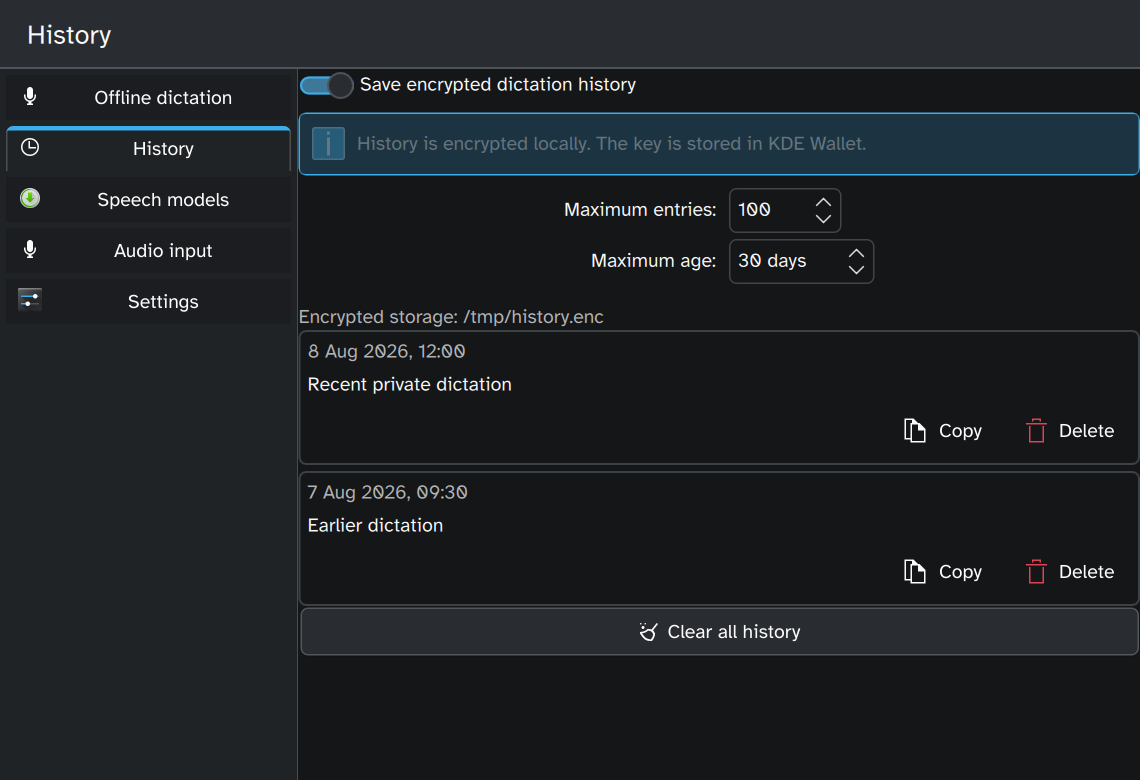
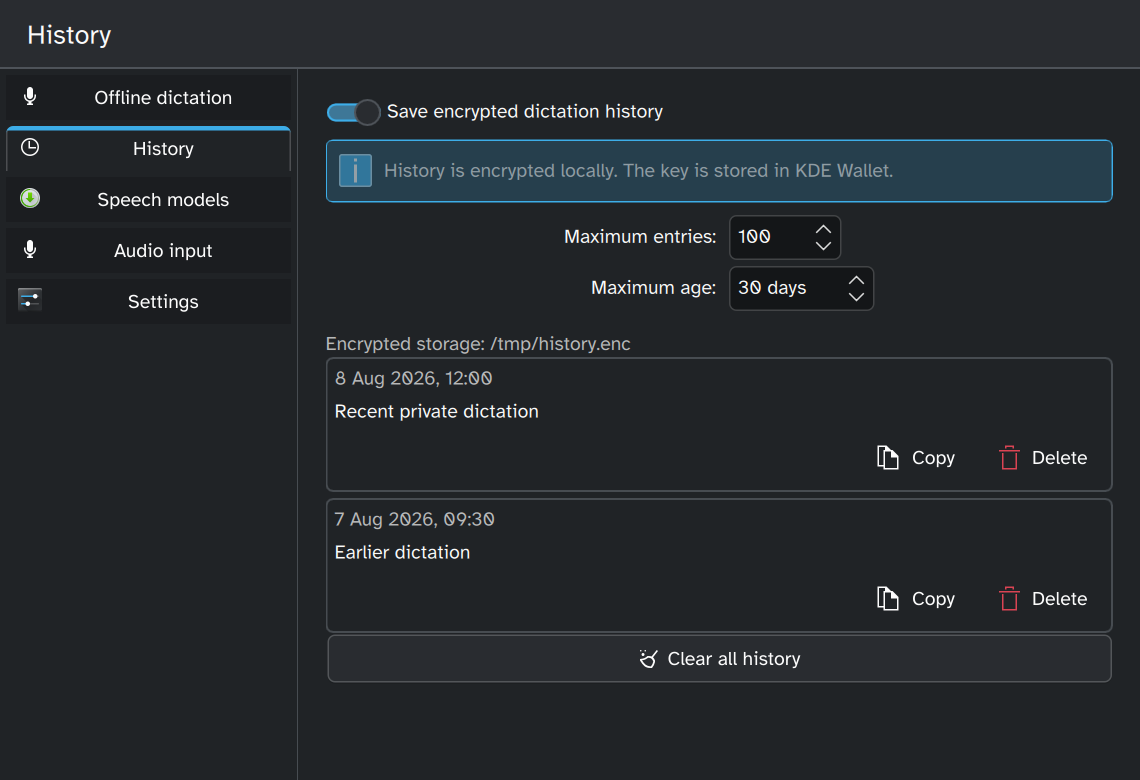
Align history interface styling

diff --git a/src/qml/Main.qml b/src/qml/Main.qml
@@ -123,43 +123,32 @@ Kirigami.ApplicationWindow {
         }
     }
 
-    Kirigami.Dialog {
+    Kirigami.PromptDialog {
         id: disableHistoryDialog
         objectName: "disableHistoryDialog"
         title: i18n("Disable dictation history?")
-        standardButtons: Kirigami.Dialog.NoButton
-
-        ColumnLayout {
-            Controls.Label {
-                Layout.preferredWidth: Kirigami.Units.gridUnit * 24
-                wrapMode: Text.Wrap
-                text: i18n("You can keep the encrypted history for later, or delete it together with its KDE Wallet key.")
-            }
-            RowLayout {
-                Layout.alignment: Qt.AlignRight
-                Controls.Button {
-                    text: i18n("Cancel")
-                    onClicked: disableHistoryDialog.close()
+        subtitle: i18n("You can keep the encrypted history for later, or delete it together with its KDE Wallet key.")
+        standardButtons: Kirigami.Dialog.Cancel
+        customFooterActions: [
+            Kirigami.Action {
+                objectName: "disableKeepHistoryAction"
+                text: i18n("Disable and keep")
+                icon.name: "document-save"
+                onTriggered: {
+                    appController.disableHistory(false)
+                    disableHistoryDialog.close()
                 }
-                Controls.Button {
-                    objectName: "disableKeepHistoryButton"
-                    text: i18n("Disable and keep")
-                    onClicked: {
-                        appController.disableHistory(false)
-                        disableHistoryDialog.close()
-                    }
-                }
-                Controls.Button {
-                    objectName: "disableDeleteHistoryButton"
-                    text: i18n("Disable and delete")
-                    highlighted: true
-                    onClicked: {
-                        appController.disableHistory(true)
-                        disableHistoryDialog.close()
-                    }
+            },
+            Kirigami.Action {
+                objectName: "disableDeleteHistoryAction"
+                text: i18n("Disable and delete")
+                icon.name: "edit-delete"
+                onTriggered: {
+                    appController.disableHistory(true)
+                    disableHistoryDialog.close()
                 }
             }
-        }
+        ]
     }
 
     MessageDialog {
@@ -193,13 +182,14 @@ Kirigami.ApplicationWindow {
     Component {
         id: historyPage
 
-        Kirigami.ScrollablePage {
+        Kirigami.Page {
             objectName: "historyPage"
             title: i18n("History")
 
             ListView {
                 id: historyList
                 objectName: "historyList"
+                anchors.fill: parent
                 model: appController.history.enabled ? appController.history.entries : []
                 spacing: Kirigami.Units.smallSpacing
                 clip: true

diff --git a/tests/qml/tst_Main.qml b/tests/qml/tst_Main.qml
@@ -457,7 +457,7 @@ TestCase {
         const list = findChild(historyPage(), "historyList")
         verify(list)
         tryCompare(list, "count", 10000)
-        verify(list.itemAtIndex(0) !== null)
+        tryVerify(function() { return list.itemAtIndex(0) !== null })
         verify(list.itemAtIndex(9999) === null)
         verify(list.reuseItems)
     }
